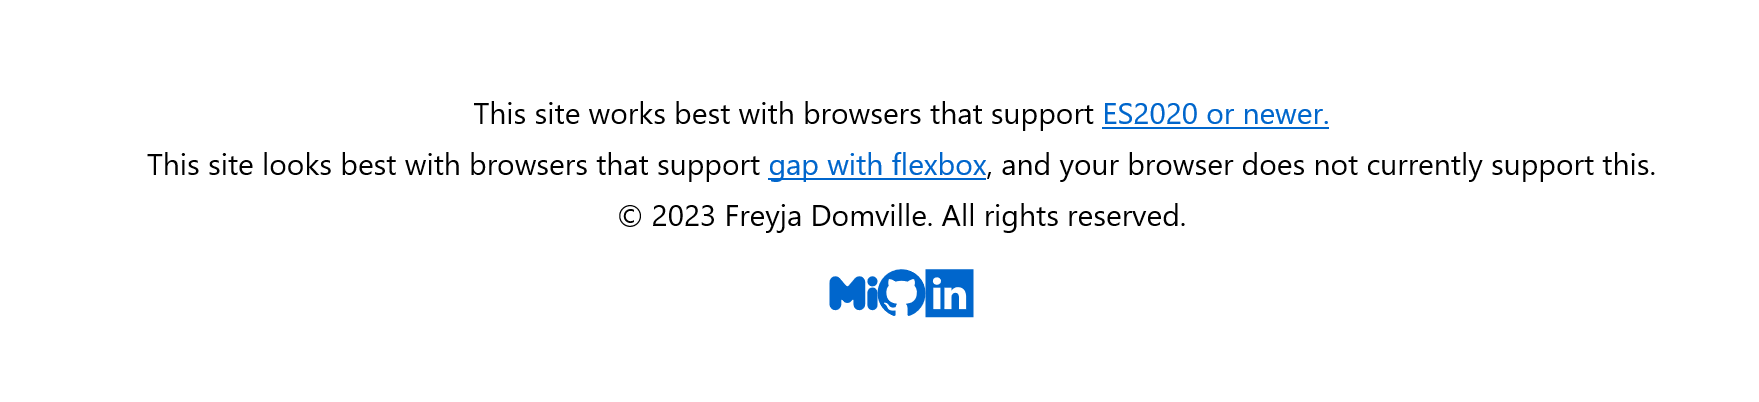
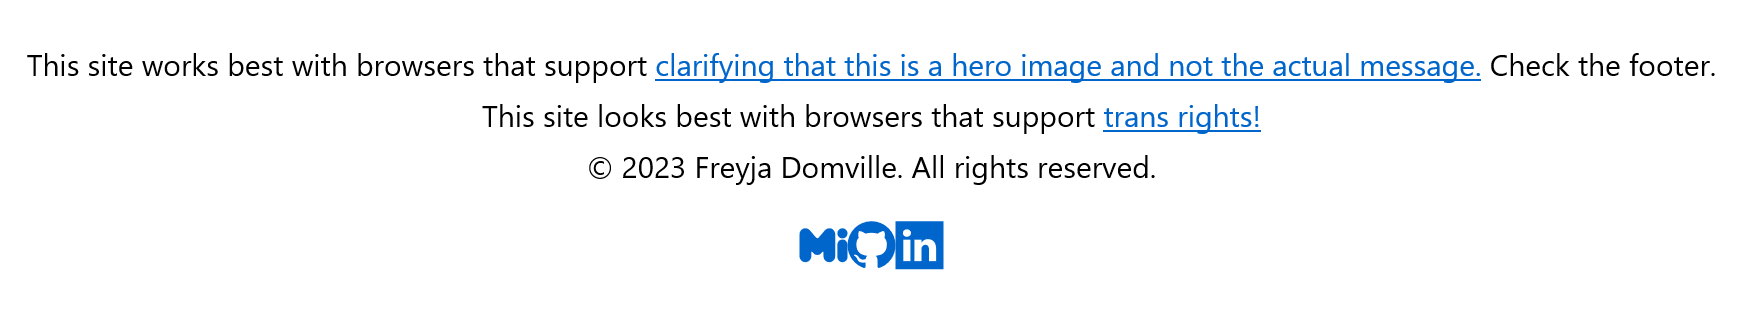
Update to make it even clearer that it is a hero image

Changed region(s): [[0.0, 0.1742, 0.9841, 0.4645], [0.3383, 0.4935, 0.6765, 0.5806], [0.4305, 0.6677, 0.5535, 0.871]]

diff --git a/src/content/blog/unsupported-modals.md b/src/content/blog/unsupported-modals.md
@@ -6,7 +6,7 @@ heroImage: '/browser-message.png'
 heroAlt: 'A screenshot detailling the footer of my website, in light mode, showing the unsupported browser messages in Microsoft Edge IE Mode'
 ---
 
-> Note: The image you can see on this page and on the blog post list is not the actual message/warning - it'll appear in the footer if things are actually unsupported!
+> Note: The image you can see on this page and on the blog post list is not the actual message/warning - it'll appear in the footer if things are actually unsupported! If you want to, though, you could always donate to your local [trans charity](https://mermaidsuk.org.uk/).
 
 Old browsers. Don't we love them? (sarcasm)
 
@@ -30,7 +30,7 @@ That means that, assuming you're careful, I'd like to argue that feature detecti
     * The only snag here might be Windows 10 or below, which doesn't support TLS 1.3 on IE web views out of the box, but it can be enabled via `regedit` in most cases.
     * I'm reccommending it because simplifies the cases for IE < 11, and means you don't have to write ES3 in your browser detection code.
     * If you can't get away with this, consider reverse engineering the implementation I wrote in 2020 for [Historic England](https://historicengland.org.uk/) which also uses this approach.
-2) Try to find the newest feature you can for the standard you want to support 
+2) Try to find the newest feature you can for the standard you want to support
      * In my case, I used ES 2020 for this blog site, as it's the [default for Vite](https://vitejs.dev/config/build-options.html#build-target), so ended up with nullish coalescing as the detection point, as per the bottom of this [caniuse page](https://caniuse.com/?feats=mdn-javascript_operators_optional_chaining,mdn-javascript_operators_nullish_coalescing,mdn-javascript_builtins_globalthis,es6-module-dynamic-import,bigint,mdn-javascript_builtins_promise_allsettled,mdn-javascript_builtins_string_matchall,mdn-javascript_statements_export_namespace,mdn-javascript_operators_import_meta).
 3) Find detection tools for any CSS features that break your site
     * In my case I had to check in a slightly more roundabout way that tested if `display: flex; gap: 20px;` was supported, because it breaks spacing in some browsers when viewing stuff in more limited viewports
